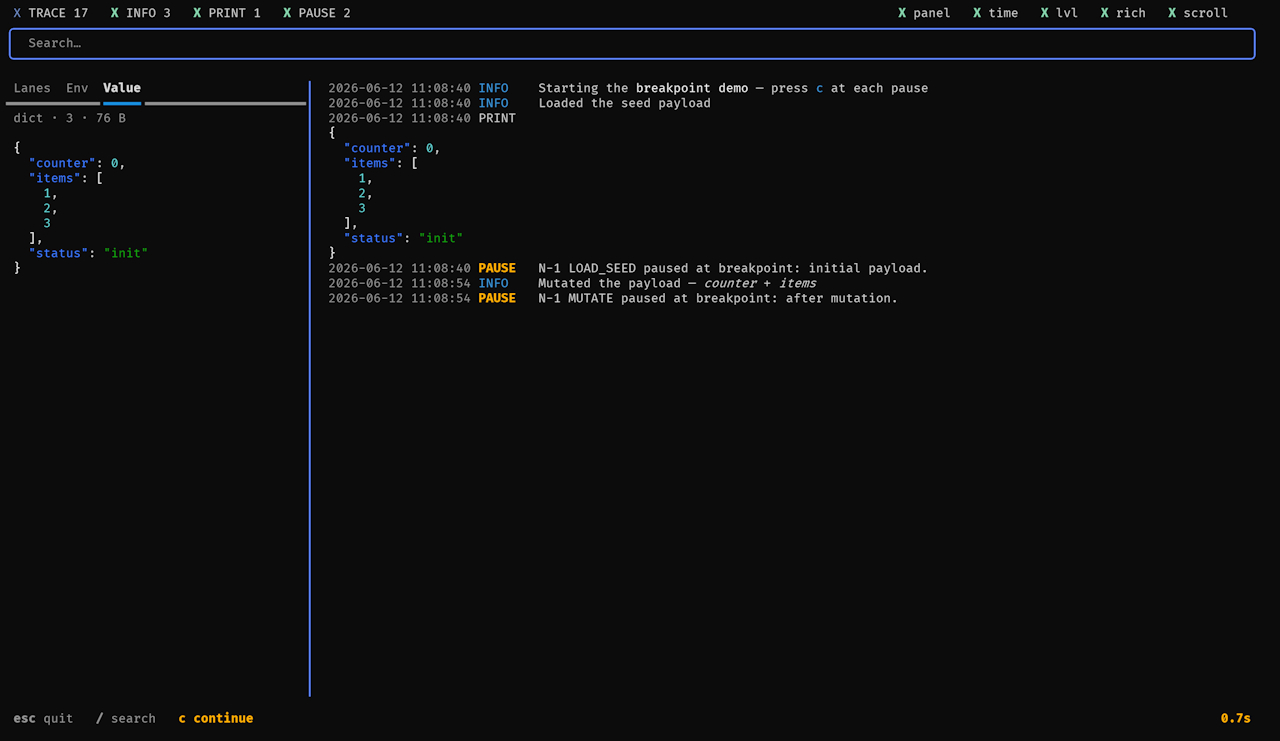
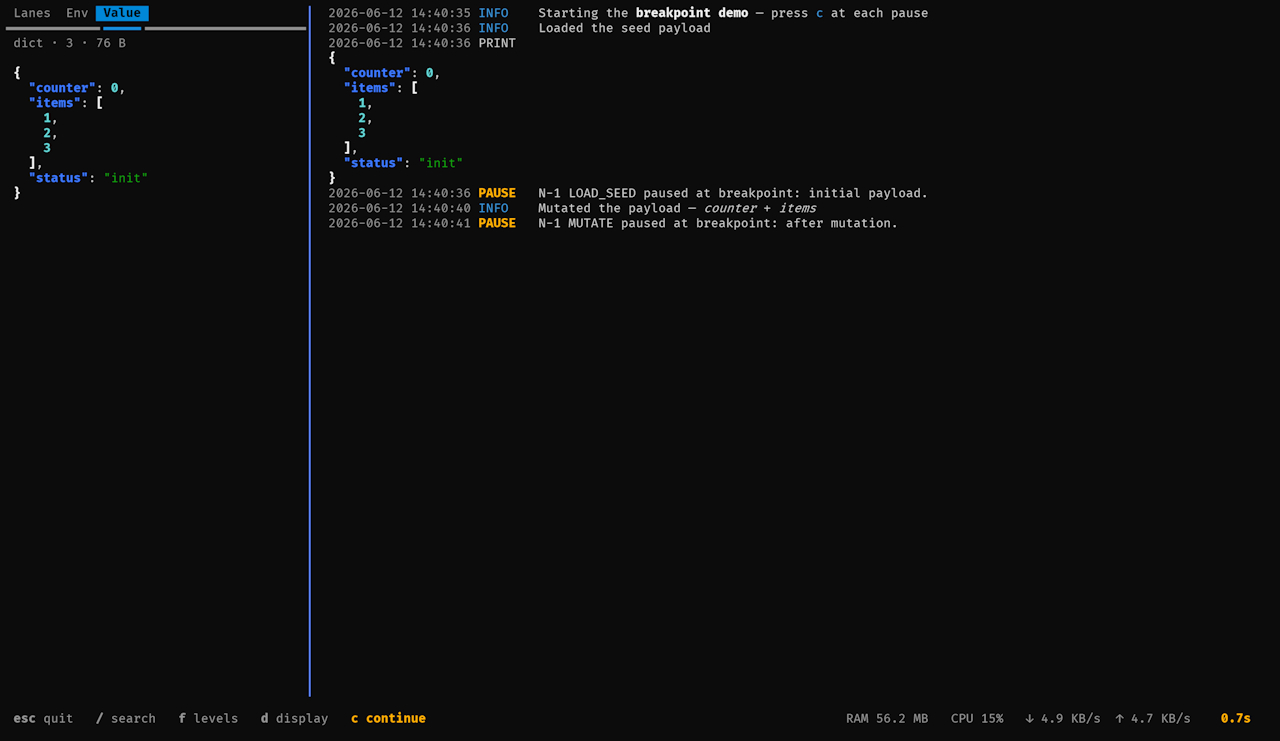
Refactor code structure for improved readability and maintainability

diff --git a/src/carabao/cli/cmd_dev/ui.py b/src/carabao/cli/cmd_dev/ui.py
@@ -101,6 +101,18 @@ def _is_word_char(char: str) -> bool:
     return char.isalnum() or char == "_"
 
 
+def _next_log_path() -> str:
+    """First free ``moo.log`` / ``moo2.log`` / … in the cwd."""
+    candidate = "moo.log"
+    index = 2
+
+    while os.path.exists(candidate):
+        candidate = f"moo{index}.log"
+        index += 1
+
+    return candidate
+
+
 class _LogStatic(Static):
     """Log pane that selects a word on double-click, a line on triple-click.
 
@@ -187,6 +199,7 @@ class _ConfirmQuit(ModalScreen[bool]):
         border: round $accent; background: $surface;
     }
     #confirm-box Label { width: 100%; text-align: center; margin-bottom: 1; }
+    #confirm-hint { color: $text-muted; margin-top: 1; margin-bottom: 0; }
     #confirm-buttons { height: auto; align: center middle; }
     #confirm-buttons Button { margin: 0 1; border: none; height: 3; content-align: center middle; color: white; text-style: bold; }
     #confirm-yes { background: #f85149; }
@@ -206,8 +219,10 @@ class _ConfirmQuit(ModalScreen[bool]):
             yield Label("Pipeline is still running.\nQuit anyway?")
 
             with Horizontal(id="confirm-buttons"):
-                yield Button("Quit", variant="error", id="confirm-yes")
-                yield Button("Cancel", variant="primary", id="confirm-no")
+                yield Button("Quit (y)", variant="error", id="confirm-yes")
+                yield Button("Cancel (n)", variant="primary", id="confirm-no")
+
+            yield Label("y quit   ·   n / esc cancel", id="confirm-hint")
 
     @on(Button.Pressed, "#confirm-yes")
     def _yes(self):
@@ -274,6 +289,7 @@ class UI(App):
         title: str = "Lane UI",
         lanes: Optional[list] = None,
         test_mode: bool = False,
+        log_file: bool = False,
     ):
         # ansi_color=True renders with the terminal's own ANSI palette + default
         # (transparent) background instead of a painted theme color. Must be
@@ -320,6 +336,10 @@ class UI(App):
         self._finished = False
         # Bottom-bar mode: "normal" hotkeys, or "levels"/"display" filter strips.
         self._bar_mode = "normal"
+        # Optional log-to-file streaming (moo.log, moo2.log, …).
+        self._log_file_enabled = log_file
+        self._log_fp = None
+        self._log_lock = threading.Lock()
 
     # ---- layout ----------------------------------------------------------
 
@@ -486,6 +506,15 @@ class UI(App):
         self._prev_stream = logger._stream
 
         logger.set_stream(self._null)
+        # Open the log file (moo.log, or moo2.log… if taken) before any
+        # logs flow, so nothing is missed.
+        if self._log_file_enabled:
+            try:
+                path = _next_log_path()
+                self._log_fp = open(path, "w", encoding="utf-8")
+            except Exception:
+                self._log_fp = None
+
         events.subscribe(self._on_event)
         # Dev-only: arm breakpoints so lane.breakpoint() calls pause here.
         events.enable_breakpoints()
@@ -588,6 +617,12 @@ class UI(App):
 
         if hasattr(self, "_null"):
             self._null.close()
+
+        if self._log_fp is not None:
+            try:
+                self._log_fp.close()
+            except Exception:
+                pass
 
     def _bridge_loguru(self):
         """Route loguru output (carabao/user lanes) into the log pane only.
@@ -775,8 +810,24 @@ class UI(App):
         if TRACEBACK_MARKER in message:
             source = source_from_traceback(message) or source
 
+        if self._log_fp is not None:
+            self._write_log_file(level, message, source)
+
         try:
             self.call_from_thread(self._add_log, level, message, source)
+        except Exception:
+            pass
+
+    def _write_log_file(self, level: str, message: str, source: Optional[str]):
+        # Stream a plain-text (ANSI-stripped) line to the log file.
+        ts = datetime.now().strftime("%Y-%m-%d %H:%M:%S")
+        clean = Text.from_ansi(message).plain
+        line = f"{ts} {level:<7} {source or '-'}  {clean}\n"
+
+        try:
+            with self._log_lock:
+                self._log_fp.write(line)
+                self._log_fp.flush()
         except Exception:
             pass
 

diff --git a/src/carabao/cli/cmd_dev/display.py b/src/carabao/cli/cmd_dev/display.py
@@ -39,6 +39,7 @@ class Result:
     form: dict[str, Any]
     raw_form: dict[str, str]
     ui: bool = False
+    log_file: bool = False
 
 
 class Display(App[Result]):
@@ -139,7 +140,7 @@ class Display(App[Result]):
             )
 
             yield self.test_mode
-            yield Label("🧪 Test Mode")
+            yield Label("🧪 Test")
 
         with Horizontal(
             classes="switch",
@@ -150,6 +151,16 @@ class Display(App[Result]):
 
             yield self.ui
             yield Label("📊 UI")
+
+        with Horizontal(
+            classes="switch",
+        ):
+            self.log_file = Switch(
+                SECRET_CFG.log_file,
+            )
+
+            yield self.log_file
+            yield Label("📄 Log")
 
         yield Button.error(
             "\\[Esc] Exit",
@@ -498,6 +509,7 @@ class MyLane(Lane):
                 form={name: field[1](field[0]) for name, field in _form.items()},
                 raw_form={name: field[0] for name, field in _form.items()},
                 ui=self.ui.value,
+                log_file=self.log_file.value,
             ),
         )
 

diff --git a/src/carabao/cfg/secret_cfg.py b/src/carabao/cfg/secret_cfg.py
@@ -6,6 +6,7 @@ class SecretCFG(BaseCFG):
     QUEUE_NAME = "queue_name"
     TEST_MODE = "test_mode"
     UI = "ui"
+    LOG_FILE = "log_file"
     FORM = "_form"
 
     filepath = ".ignore.carabao.cfg"
@@ -28,6 +29,13 @@ class SecretCFG(BaseCFG):
 
         # Default on when unset.
         return section.get(self.UI, "True") == "True"
+
+    @property
+    def log_file(self):
+        section = self.get_section(self.LOG_FILE)
+
+        # Default off when unset.
+        return section.get(self.LOG_FILE) == "True"
 
     def get_form(self, lane_name: str):
         return dict(

diff --git a/src/carabao/cli/__init__.py b/src/carabao/cli/__init__.py
@@ -118,6 +118,12 @@ def dev(
         value=str(result.ui),
     )
 
+    SECRET_CFG.write(
+        section=SECRET_CFG.LOG_FILE,
+        key=SECRET_CFG.LOG_FILE,
+        value=str(result.log_file),
+    )
+
     for key, value in result.raw_form.items():
         SECRET_CFG.write(
             section=f"{result.name}{SECRET_CFG.FORM}",
@@ -149,6 +155,7 @@ def dev(
             title=result.name,
             lanes=[result.lane],
             test_mode=result.test_mode,
+            log_file=result.log_file,
         ).run()
     else:
         Core.start(

diff --git a/README.md b/README.md
@@ -275,7 +275,7 @@ Requires the `standard` extra (`pip install "carabao[standard]"`).
 -   Shows the selected lane's docstring and a **process tree** built from its
     `lanes` field (recursive — sub-lanes appear automatically).
 -   Edits the lane's form fields (if it defines a `Form`).
--   Toggles: **🧪 Test Mode** and **📊 UI** (the live visualizer; on by default).
+-   Toggles: **🧪 Test** and **📊 UI** (the live visualizer; on by default).
 -   Remembers your last selection. `Enter` runs, `Esc` exits.
 
 ![The dev queue selector](https://raw.githubusercontent.com/Talisik/carabao/main/previews/queue_selection.jpg)
@@ -284,7 +284,7 @@ Requires the `standard` extra (`pip install "carabao[standard]"`).
 
 **Live UI.** With the **📊 UI** toggle on, running a lane opens a live dashboard.
 
-The **left panel** (toggle with **panel**) has tabs:
+The **left panel** has tabs (cycle with **`q`** / **`e`**):
 
 -   **Lanes** — the full pipeline laid out from the `lanes` field up front; each
     lane spins while active and shows its true work time when done.
@@ -295,14 +295,22 @@ The **left panel** (toggle with **panel**) has tabs:
 The **log pane** captures `print()`, the `l2l` logger, **loguru**, and the
 stdlib `logging` module (including non-propagating loggers):
 
--   selectable text (drag to select, `Ctrl+C` to copy)
--   syntax-highlighted JSON and inline markdown (`**bold**`, `` `code` ``,
-    `*italic*`, `~~strike~~`)
--   per-level filter checkboxes that appear only for levels seen, each with a
-    live count (`INFO 5K`); `TRACE` is off by default
--   `/` to search; top-right toggles for **time**, **lvl**, **rich**, **scroll**
+-   selectable text (drag to select, double-click a word, triple-click a line,
+    `Ctrl+C` to copy)
+-   syntax-highlighted JSON, colored tracebacks, and inline markdown
+    (`**bold**`, `` `code` ``, `*italic*`, `~~strike~~`)
+-   optional `module:func:line` origin per line
 
 ![The log pane](https://raw.githubusercontent.com/Talisik/carabao/main/previews/logs.jpg)
+
+The **bottom bar** is a compact control strip:
+
+-   **`/`** reveals a search box (hides again when empty)
+-   **`f`** swaps in the level filters, **`d`** the display toggles — **number
+    keys** toggle each item; `TRACE` is off by default
+-   live RAM / CPU / network (when `psutil` is installed) and an elapsed timer
+
+![Search box and the Environment tab](https://raw.githubusercontent.com/Talisik/carabao/main/previews/search_and_env.jpg)
 
 **Breakpoints.** Call `self.breakpoint("label")` inside `process()` to pause the
 pipeline (dev-only — a no-op under `moo run`). The lane shows `⏸`, logs at the